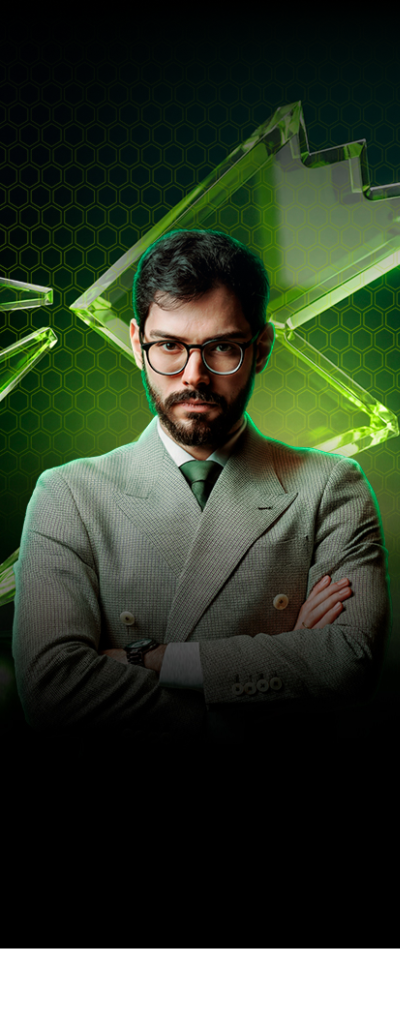
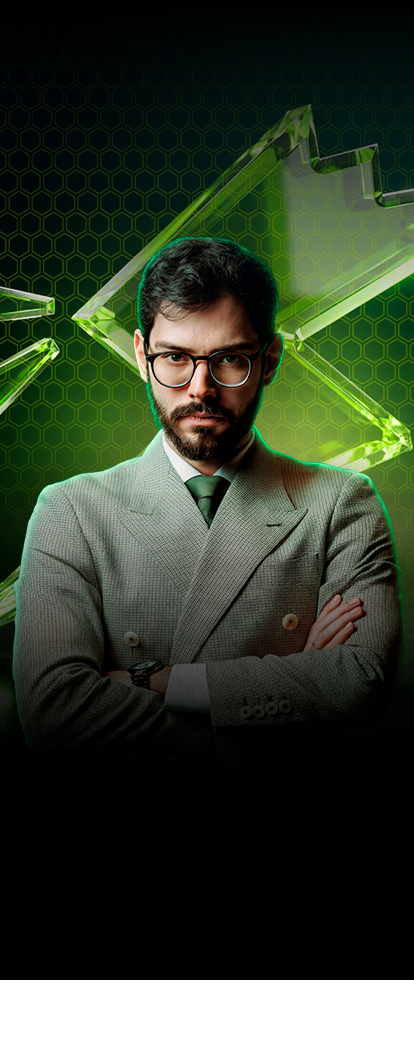
fix: push hero content to absolute bottom on mobile

diff --git a/src/components/sections/Hero.tsx b/src/components/sections/Hero.tsx
@@ -56,10 +56,10 @@ export function Hero() {
             {/* --- CONTENT CONTAINER --- */}
             <motion.div
                 style={{ y: yContent }}
-                className="relative z-10 flex flex-col h-full min-h-screen px-[20px] md:px-[120px] py-[40px] md:py-[60px]"
+                className="relative z-10 flex flex-col h-full min-h-screen px-[20px] md:px-[120px] pt-[40px] md:py-[60px]"
             >
                 {/* --- LOGO (Top) --- */}
-                <div className="w-full flex justify-center md:justify-start">
+                <div className="flex-none w-full flex justify-center md:justify-start">
                     <img
                         src={imgLogoPng}
                         alt="Fale Sem Vício"
@@ -67,9 +67,11 @@ export function Hero() {
                     />
                 </div>
 
-                {/* --- MAIN CONTENT (Centered on mobile, left-aligned on desktop) --- */}
-                {/* On mobile, we push this to the bottom using margin-top auto */}
-                <div className="flex flex-col items-center md:items-start text-center md:text-left max-w-[700px] mt-auto md:mt-0 w-full pb-[10vh] md:pb-0">
+                {/* --- SPACER (Mobile only) --- */}
+                <div className="flex-grow md:hidden" />
+
+                {/* --- MAIN CONTENT (Bottom anchored) --- */}
+                <div className="flex-none flex flex-col items-center md:items-start text-center md:text-left max-w-[700px] w-full pb-[40px] md:pb-0 md:mt-0">
 
                     {/* H1 - Line 1 */}
                     <motion.p
